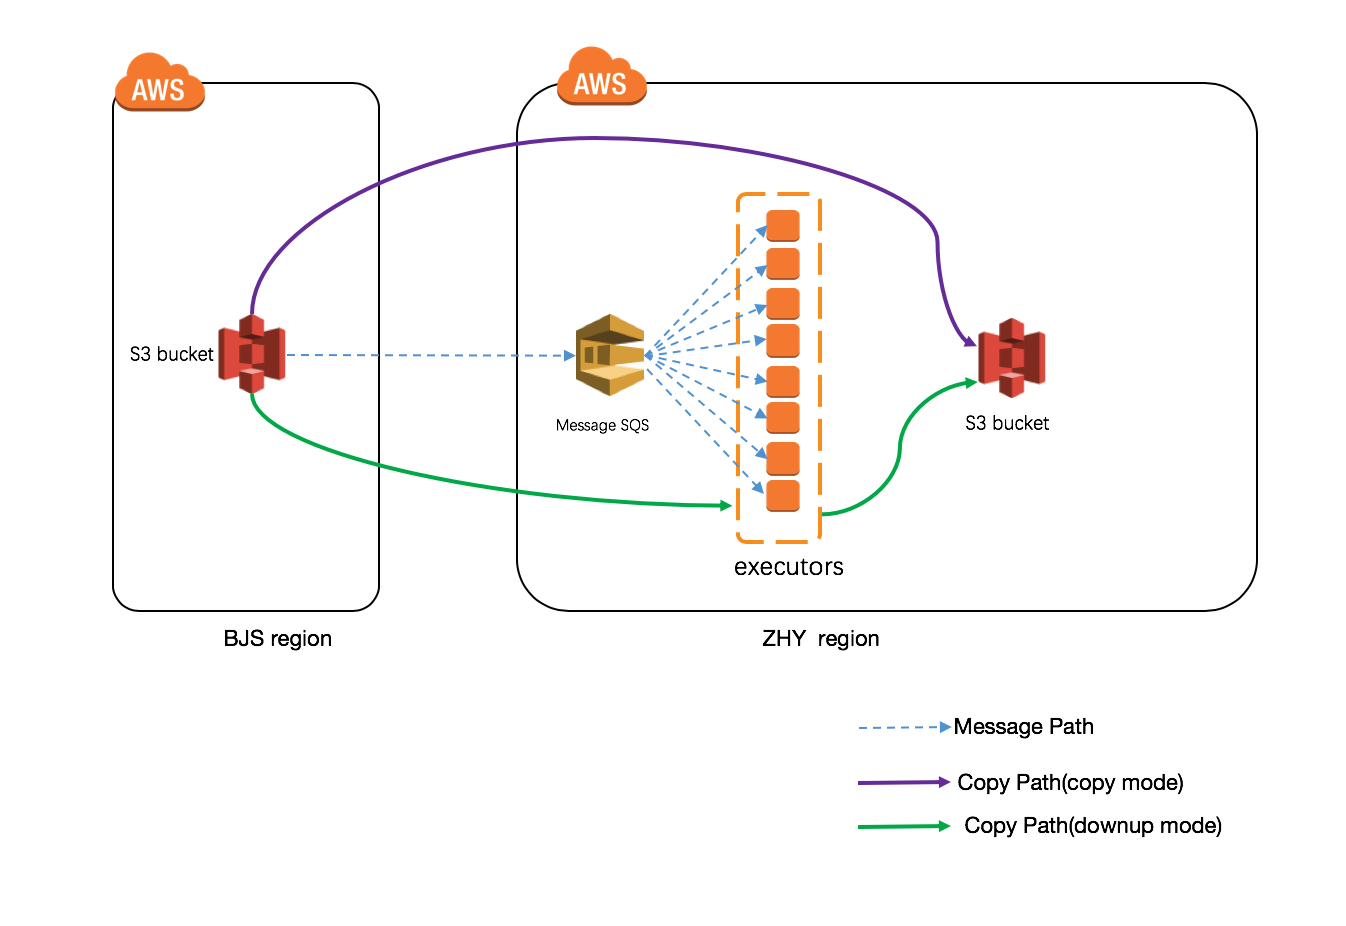
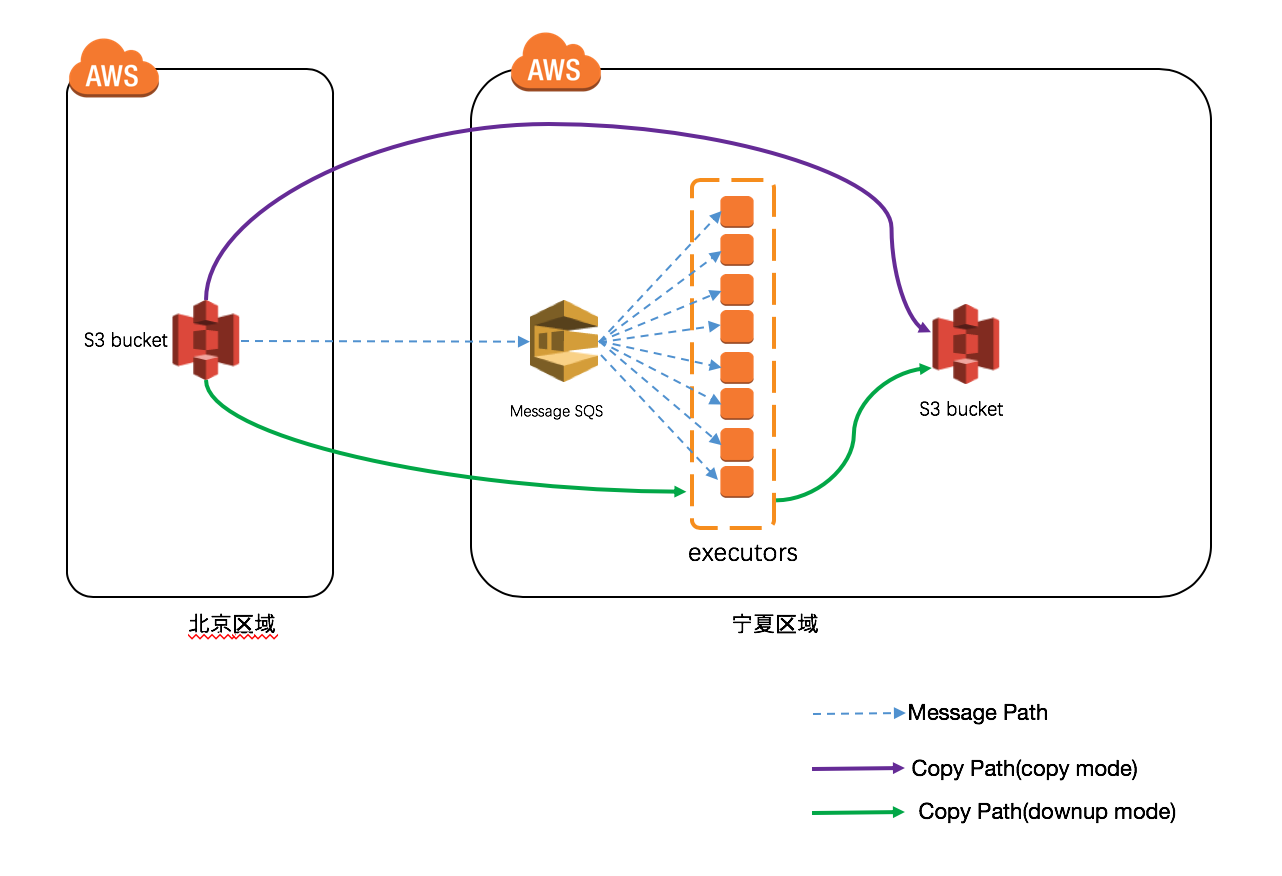
commit

diff --git a/README.md b/README.md
@@ -5,9 +5,9 @@ AWS S3 Tools
 本工具支持迁移及迁移后的校验。
 
 # 免责说明   
-此方案为Bainapu贡献，已在其生产环境中得到验证。但我们仍然无法保证方案的通用性，建议您在测试过程中使用此方案，生产环境使用请自行考虑评估。   
-当您对方案需要进一步的沟通和反馈后，可以联系 nwcd_labs@nwcdcloud.cn 获得更进一步的支持。
-欢迎联系参与方案共建, 也欢迎在 github 项目issue中留言反馈bugs。
+此方案为百纳谱（www.bainapu.com）贡献，已在其生产环境中得到验证,感谢百纳谱对nwcdlabs开源项目的支持。   
+当您对方案需要进一步的沟通和反馈后，可以联系 nwcd_labs@nwcdcloud.cn 获得更进一步的支持。欢迎联系参与方案共建, 也欢迎在 github 项目issue中留言反馈bugs。     
+我们无法保证s3大规模迁移方案在任何场景的通用性，因此建议您在测试过程中使用此方案，生产环境使用请自行考虑评估。   
 
 
 # 依赖包
@@ -23,6 +23,15 @@ pip install -r requirements.txt
 ## 原理架构
 
 ![](Picture1.png)
+
+图中虚线为message path： 首先通过s3 inventory或S3 list的方式列出源桶中所有需要迁移的s3对象并将对象信息发往队列；executors从队列中获得需要迁移的对象信息。  
+图中实现为object copy path: executors从消息队列中获取到对象的信息后，对每个对象执行复制操作。复制操作有两种方式可选：紫色为直接使用s3 copy的方式；绿色是先将对象下载到本地，再上传到目标桶的方式。   
+
+图中橙色的executors的执行方式两种，一种是在多个EC2虚机上直接执行python进程的方式；另一种是将python进程制作成镜像（通过本项目dockerfile生成），再通过AWS ECS服务拉起多个容器并行执行。
+
+
+
+
 
 
 
@@ -67,6 +76,8 @@ pip install -r requirements.txt
 使用`--env-file` or `-e`指定.env文件  
 
 ## 使用
+
+如无特殊说明，所有命令默认在ec2上通过执行python程序的方式进行。
 
 ### 初始化 SQS 队列
 
@@ -130,7 +141,7 @@ python s3_tools.py  executor
 | --max-receive-num | 每个executor每次最多能取的消息数量 |
 
 
-这条命令可以在ECS中运行以获得高并发性。使用本项目源码中的Dockerfile来构建docker镜像。 使用本项目源码中的templates/cloudformation.template模板来创建任务。     
+除通过在多个EC2上并行执行该命令的默认方式外，这条命令也可以在ECS中运行以获得高并发性。使用本项目源码中的Dockerfile来构建docker镜像。 使用本项目源码中的templates/cloudformation.template模板来创建任务。cloudformation是一种快速搭建aws资源的方式：  https://amazonaws-china.com/cn/cloudformation/aws-cloudformation-templates/      
 
 # 测试
 
